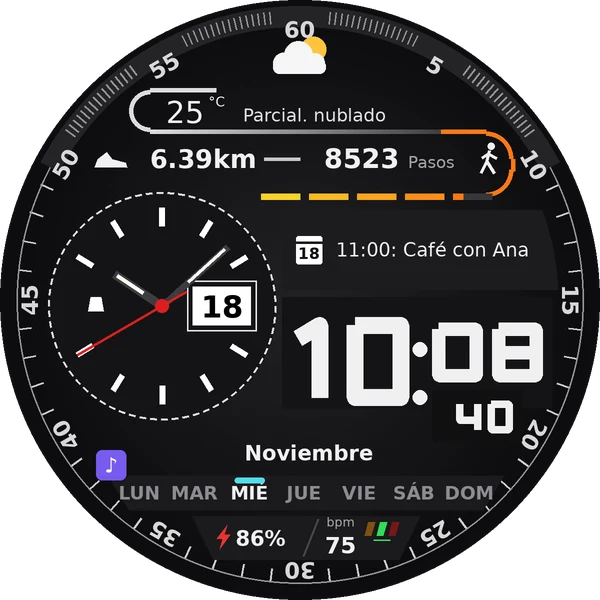
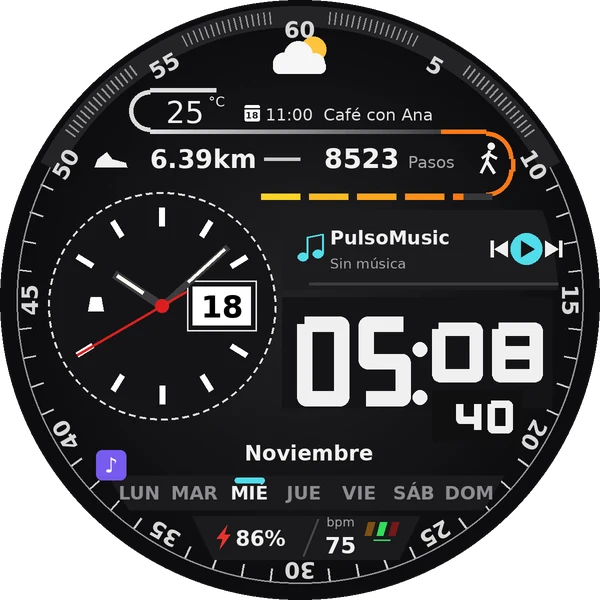
Pulso Híbrida: reproductor siempre visible, evento junto al clima y hora sin tocar el reloj de agujas
Claude-Session: https://claude.ai/code/session_01RTdv2VrACuR4VFWJLA57hx

Changed region(s): [[0.48, 0.36, 0.96, 0.48], [0.48, 0.51, 0.69, 0.69], [0.39, 0.18, 0.72, 0.21]]

diff --git a/android/esferas-de-reloj/hibrida/src/main/java/cl/carlospnauto/esfera/FaceService.kt b/android/esferas-de-reloj/hibrida/src/main/java/cl/carlospnauto/esfera/FaceService.kt
@@ -78,7 +78,7 @@ private val THEMES = listOf(
 )
 private val THEME = Choice("tema", "Colores", THEMES.map { it.first to it.second.to })
 private val GOAL = Choice("meta", "Meta de pasos", listOf("10.000" to 10000, "6.000" to 6000, "8.000" to 8000, "12.000" to 12000, "15.000" to 15000))
-private val MINI = Choice("mini", "Mini reproductor (en eventos)", listOf("Al sonar PulsoMusic" to 0, "Apagado (solo eventos)" to 1))
+private val MINI = Choice("mini2", "Reproductor", listOf("Siempre visible" to 0, "Ocultar (ver eventos ahí)" to 1))
 private val AMB = Choice("bajo", "Bajo consumo", listOf("Pantalla completa tenue" to 0, "Mínimo" to 1))
 
 object Config : FaceConfig {
@@ -102,13 +102,13 @@ class FaceService : WatchFaceService() {
         fun slot(id: Int, types: List<ComplicationType>, policy: DefaultComplicationDataSourcePolicy, b: RectF) =
             ComplicationSlot.createRoundRectComplicationSlotBuilder(id, factory, types, policy, ComplicationSlotBounds(b)).build()
         val slots = listOf(
-            slot(WEATHER, short, DefaultComplicationDataSourcePolicy(), RectF(0.225f, 0.12f, 0.75f, 0.22f)),
+            slot(WEATHER, short, DefaultComplicationDataSourcePolicy(), RectF(0.21f, 0.165f, 0.40f, 0.225f)),
             slot(STEPS, short, DefaultComplicationDataSourcePolicy(SystemDataSources.DATA_SOURCE_STEP_COUNT, ComplicationType.SHORT_TEXT), RectF(0.20f, 0.235f, 0.85f, 0.33f)),
-            // Eventos: no llega hasta los botones del mini reproductor (a la derecha)
+            // Eventos: la línea junto a la temperatura
             slot(
                 EVENT, listOf(ComplicationType.LONG_TEXT, ComplicationType.SHORT_TEXT),
                 DefaultComplicationDataSourcePolicy(SystemDataSources.DATA_SOURCE_NEXT_EVENT, ComplicationType.LONG_TEXT),
-                RectF(0.47f, 0.35f, 0.80f, 0.48f),
+                RectF(0.40f, 0.165f, 0.75f, 0.225f),
             ),
             slot(HEART, short, DefaultComplicationDataSourcePolicy(), RectF(0.53f, 0.86f, 0.72f, 0.96f)),
         )
@@ -222,7 +222,7 @@ class HybridRenderer(
 
     fun playerTap(x: Int, y: Int): Boolean {
         if (!miniOn()) return false
-        val s = PhoneNow.current() ?: return false
+        val s = PhoneNow.current()
         val b = lastBounds
         if (b.isEmpty) return false
         val r = min(b.width(), b.height()) / 2f
@@ -230,7 +230,7 @@ class HybridRenderer(
         val cy = b.exactCenterY()
         val action = when {
             playerZone(cx, cy, r, 0).contains(x.toFloat(), y.toFloat()) -> "prev"
-            playerZone(cx, cy, r, 1).contains(x.toFloat(), y.toFloat()) -> if (s.playing) "pause" else "play"
+            playerZone(cx, cy, r, 1).contains(x.toFloat(), y.toFloat()) -> if (s?.playing == true) "pause" else "play"
             playerZone(cx, cy, r, 2).contains(x.toFloat(), y.toFloat()) -> "next"
             else -> return false
         }
@@ -353,8 +353,21 @@ class HybridRenderer(
         val digits = temp?.filter { it.isDigit() || it == '-' }.orEmpty()
         write(canvas, digits.ifEmpty { "--" }, X(-0.32f), Y(-0.59f), r * 0.10f, white, medium, Paint.Align.RIGHT)
         write(canvas, if (temp?.contains("F") == true) "°F" else "°C", X(-0.305f), Y(-0.645f), r * 0.045f, white, medium, Paint.Align.LEFT)
-        // Estado del clima (o «elige el clima en Personalizar»)
-        write(canvas, wTitle ?: if (temp == null) "Elige el clima en Personalizar" else "", X(-0.19f), Y(-0.595f), r * 0.06f, Color.rgb(225, 225, 225), medium, Paint.Align.LEFT, maxW = r * 0.62f)
+        // Junto a la temperatura: el próximo evento (con el reproductor visible, los eventos van aquí);
+        // si no hay, el estado del clima
+        val ev = complications.textOf(EVENT, context.resources)
+        val evTitle = complications.titleOf(EVENT, context.resources)
+        val evLine = when {
+            ev == null -> null
+            evTitle != null -> "$evTitle  $ev"
+            else -> ev
+        }
+        if (miniOn() && evLine != null) {
+            drawCalendar(canvas, X(-0.16f), Y(-0.625f), r * 0.032f, t.dayOfMonth)
+            write(canvas, evLine, X(-0.115f), Y(-0.598f), r * 0.056f, Color.rgb(225, 225, 225), medium, Paint.Align.LEFT, maxW = r * 0.58f)
+        } else {
+            write(canvas, wTitle ?: if (temp == null) "Elige el clima en Personalizar" else if (miniOn()) "Sin eventos próximos" else "", X(-0.19f), Y(-0.595f), r * 0.058f, Color.rgb(225, 225, 225), medium, Paint.Align.LEFT, maxW = r * 0.62f)
+        }
 
         // ===== Pasos, distancia y meta =====
         // Corchete naranja a la derecha
@@ -407,12 +420,15 @@ class HybridRenderer(
         fill.color = Color.rgb(28, 28, 30)
         canvas.drawRect(band, fill)
         canvas.restore()
+        // El reproductor es parte de la esfera: siempre está (sin música, con su nombre y «Sin música»)
         val music = if (miniOn()) PhoneNow.current() else null
-        if (music != null) {
+        if (miniOn()) {
             // Nota musical en el color del tema
             drawNote(canvas, X(0.03f), Y(-0.17f), r * 0.05f, th.day)
-            write(canvas, music.title, X(0.10f), Y(-0.185f), r * 0.064f, white, bold, Paint.Align.LEFT, maxW = r * 0.50f)
-            if (music.artist.isNotBlank()) write(canvas, music.artist, X(0.10f), Y(-0.105f), r * 0.048f, grey, medium, Paint.Align.LEFT, maxW = r * 0.50f)
+            val app = if (PhoneNow.state?.from == "cl.carlospnauto.app") "PulsoMedia" else "PulsoMusic"
+            write(canvas, music?.title ?: app, X(0.10f), Y(-0.185f), r * 0.064f, white, bold, Paint.Align.LEFT, maxW = r * 0.50f)
+            val sub = if (music == null) "Sin música" else music.artist
+            if (sub.isNotBlank()) write(canvas, sub, X(0.10f), Y(-0.105f), r * 0.048f, grey, medium, Paint.Align.LEFT, maxW = r * 0.50f)
             // Botones ◄ ►‖ ►|
             fill.color = white
             val by = Y(-0.17f)
@@ -425,7 +441,7 @@ class HybridRenderer(
             fill.color = th.day
             canvas.drawCircle(bx, by, s * 1.9f, fill)
             fill.color = Color.rgb(20, 20, 22)
-            if (music.playing) {
+            if (music?.playing == true) {
                 canvas.drawRect(bx - s * 0.75f, by - s * 0.85f, bx - s * 0.25f, by + s * 0.85f, fill)
                 canvas.drawRect(bx + s * 0.25f, by - s * 0.85f, bx + s * 0.75f, by + s * 0.85f, fill)
             } else {
@@ -438,7 +454,7 @@ class HybridRenderer(
             canvas.drawPath(path, fill)
             canvas.drawRect(bx + s * 0.7f, by - s, bx + s * 1.05f, by + s, fill)
             // Avance de la canción
-            val p = if (music.durationMs > 0) (music.position().toFloat() / music.durationMs).coerceIn(0f, 1f) else 0f
+            val p = if (music != null && music.durationMs > 0) (music.position().toFloat() / music.durationMs).coerceIn(0f, 1f) else 0f
             stroke.strokeWidth = r * 0.01f
             stroke.color = Color.rgb(60, 60, 64)
             canvas.drawLine(X(0.03f), Y(-0.055f), X(0.86f), Y(-0.055f), stroke)
@@ -447,16 +463,9 @@ class HybridRenderer(
                 canvas.drawLine(X(0.03f), Y(-0.055f), X(0.03f) + r * 0.83f * p, Y(-0.055f), stroke)
             }
         } else {
-            // Próximo evento del calendario
+            // Reproductor oculto: aquí va el próximo evento del calendario
             drawCalendar(canvas, X(0.03f), Y(-0.17f), r * 0.055f, t.dayOfMonth)
-            val ev = complications.textOf(EVENT, context.resources)
-            val evTitle = complications.titleOf(EVENT, context.resources)
-            val line = when {
-                ev == null -> "Sin eventos próximos"
-                evTitle != null -> "$evTitle: $ev"
-                else -> ev
-            }
-            write(canvas, line, X(0.12f), Y(-0.145f), r * 0.064f, white, medium, Paint.Align.LEFT, maxW = r * 0.74f)
+            write(canvas, evLine ?: "Sin eventos próximos", X(0.12f), Y(-0.145f), r * 0.064f, white, medium, Paint.Align.LEFT, maxW = r * 0.74f)
         }
 
         // ===== Hora digital grande, segundos y su fondo =====
@@ -466,7 +475,7 @@ class HybridRenderer(
         val h = if (is24) "%02d".format(t.hour) else (if (t.hour % 12 == 0) 12 else t.hour % 12).toString()
         // Números cuadrados con las esquinas redondeadas, como los de la foto
         // Como en la foto: la hora grande y los minutos más chicos, alineados arriba
-        SquareDigits.draw(canvas, h, X(0.365f), Y(0.055f), r * 0.21f, r * 0.30f, r * 0.058f, r * 0.035f, white, alignRight = true)
+        SquareDigits.draw(canvas, h, X(0.37f), Y(0.055f), r * 0.175f, r * 0.30f, r * 0.052f, r * 0.03f, white, alignRight = true)
         // Dos puntos redondos
         fill.color = white
         canvas.drawCircle(X(0.40f), Y(0.165f), r * 0.024f, fill)

diff --git a/lib/watchfaces.ts b/lib/watchfaces.ts
@@ -19,7 +19,7 @@ export const WATCH_FACES: WatchFace[] = [
     name: 'Pulso Híbrida',
     file: 'Esfera-Hibrida.apk',
     description:
-      'Agujas y digital a la vez: escala de minutos en el borde, clima, pasos con distancia y meta, próximo evento (y un mini reproductor cuando suena PulsoMusic o PulsoMedia), reloj de agujas con fecha y alarma, hora grande con segundos, mes y días de la semana, batería y ritmo cardíaco con su zona.',
+      'Agujas y digital a la vez: escala de minutos en el borde, clima, pasos con distancia y meta, próximo evento junto al clima, mini reproductor de PulsoMusic o PulsoMedia siempre a la vista, reloj de agujas con fecha y alarma, hora grande con segundos, mes y días de la semana, batería y ritmo cardíaco con su zona.',
     features: ['Híbrida', 'Mini reproductor', 'Clima', 'Pasos', 'Eventos', 'Ritmo cardíaco', '6 colores', 'PulsoMusic', 'PulsoMedia'],
     added: '2026-11-18',
   },
@@ -260,7 +260,7 @@ export const WATCH_FACE_DETAILS: Record<string, WatchFaceDetail> = {
     customize: [
       '6 colores: naranja y cian, verde, azul, rojo, violeta y blanco',
       'Meta de pasos: 6.000, 8.000, 10.000, 12.000 o 15.000',
-      'Mini reproductor al sonar PulsoMusic, o solo eventos',
+      'Reproductor siempre visible (sin música muestra «Sin música») u ocultarlo y ver los eventos ahí',
       'Segundero suave o por segundos',
       'Bajo consumo: esfera completa tenue o mínima',
       'Clima: elige el dato en Personalizar',
